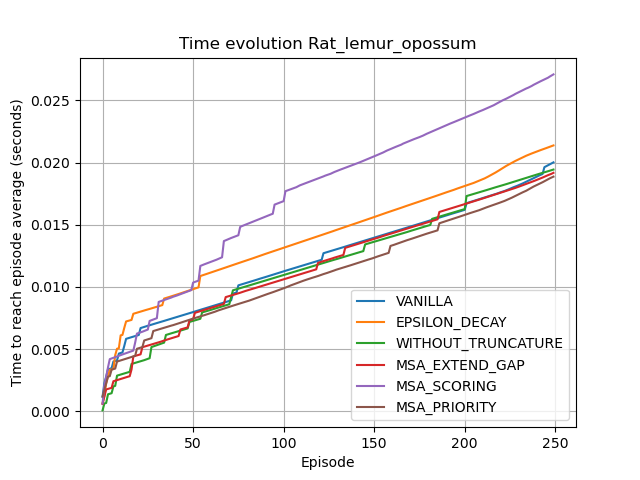
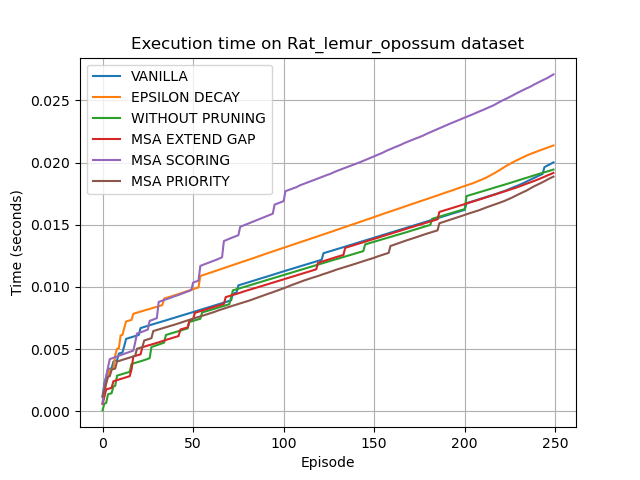
[UPDATE] graph

diff --git a/src/new_plot.py b/src/new_plot.py
@@ -43,15 +43,15 @@ def get_key_dico(path):
     if "VANILLA" in path:
         key = "VANILLA"
     elif "DECAY" in path:
-        key = "EPSILON_DECAY"
+        key = "EPSILON DECAY"
     elif "TRUNCATURE" in path:
-        key = "WITHOUT_TRUNCATURE"
+        key = "WITHOUT PRUNING"
     elif "EXTEND" in path:
-        key = "MSA_EXTEND_GAP"
+        key = "MSA EXTEND GAP"
     elif "MSA_SCORING" in path:
-        key = "MSA_SCORING"
+        key = "MSA SCORING"
     elif "MSA_PRIORITY" in path:
-        key = "MSA_PRIORITY"
+        key = "MSA PRIORITY"
     else:
         raise Exception
 
@@ -105,8 +105,8 @@ def normal_plot(data,stop_to,name_experiment):
 
     plt.grid(True)
     plt.xlabel("Episode")
-    plt.ylabel("Time to reach episode average (seconds)")
-    plt.title("Time evolution" + " "  + name_experiment)
+    plt.ylabel("Time (seconds)")
+    plt.title("Execution time on " + name_experiment + " dataset")
     for index in range(len(list_time_series)):
         label = labels[index]
         time_series = list_time_series[index]
@@ -120,8 +120,8 @@ def normal_plot(data,stop_to,name_experiment):
 
     plt.grid(True)
     plt.xlabel("Episode")
-    plt.ylabel("Best score average")
-    plt.title("Best score evolution" + " "  + name_experiment)
+    plt.ylabel("Best score")
+    plt.title("Best score evolution on " + name_experiment + " dataset")
     for index in range(len(list_best_score)):
         label = labels[index]
         best_score = list_best_score[index]
@@ -130,45 +130,6 @@ def normal_plot(data,stop_to,name_experiment):
     #plt.scatter(bf_number_permutation, bf_best_score, s=100, label="BRUTE_FORCE")
     plt.legend()
     plt.savefig("../ultimate_plot/"+ name_experiment + "_best_score_plot.png")
-    plt.clf()
-
-
-
-def hepatitis_plot(data,stop_to,name_experiment):
-    labels = []
-    list_time_series = []
-    list_best_score = []
-    for setting in data:
-        if setting != "BRUTE_FORCE":
-            time_series, best_score_average = data[setting]
-            labels.append(setting)
-            list_time_series.append(time_series)
-            list_best_score.append(best_score_average)
-
-    plt.grid(True)
-    plt.xlabel("Episode")
-    plt.ylabel("Time to reach episode average (seconds)")
-    plt.title("Time evolution" + " " + name_experiment)
-    for index in range(len(list_time_series)):
-        label = labels[index]
-        time_series = list_time_series[index]
-        plot(time_series, stop_to, label)
-
-    plt.legend()
-
-    plt.savefig("../ultimate_plot/" + name_experiment + "_time_plot.png")
-    plt.clf()
-
-    plt.grid(True)
-    plt.xlabel("Episode")
-    plt.ylabel("Best score average")
-    plt.title("Best score evolution")
-    for index in range(len(list_best_score)):
-        label = labels[index]
-        best_score = list_best_score[index]
-        plot(best_score, stop_to, label)
-    plt.legend()
-    plt.savefig("../ultimate_plot/" + name_experiment + "_best_score_plot.png")
     plt.clf()
 
 
@@ -197,14 +158,9 @@ def plot_experiment():
     for experiment in LIST_NAME_EXPERIMENT:
         all_data[experiment] = gather_all_data(experiment)
 
-
-
     #Key :  experiment name | value : dictionnary -> key : setting | value : datas
 
     for experiment in LIST_NAME_EXPERIMENT:
-        if experiment != "Hepatitis_C":
-            normal_plot(all_data[experiment],STOP_TO[experiment],experiment)
-        else:
-            hepatitis_plot(all_data[experiment],STOP_TO[experiment],experiment)
+        normal_plot(all_data[experiment],STOP_TO[experiment],experiment)
 
 plot_experiment()
